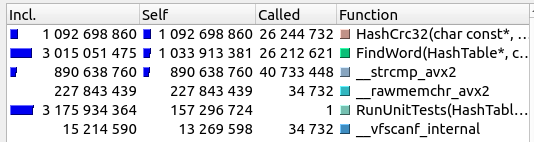
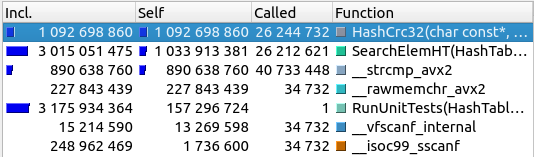
change optimizations order

diff --git a/src/hashfunctions.cpp b/src/hashfunctions.cpp
@@ -68,3 +68,68 @@ static inline uint32_t Rol (uint32_t num, int shift)
 {
     return (num << shift) | (num >> ((int) sizeof (num) * 8 - shift));
 }
+
+// -----------------------------------------------------------------------------
+// ---------------------------- Crc32 hash -------------------------------------
+// -----------------------------------------------------------------------------
+
+const uint32_t crc32_tab[] = {
+	0x00000000, 0x77073096, 0xee0e612c, 0x990951ba, 0x076dc419, 0x706af48f,
+	0xe963a535, 0x9e6495a3,	0x0edb8832, 0x79dcb8a4, 0xe0d5e91e, 0x97d2d988,
+	0x09b64c2b, 0x7eb17cbd, 0xe7b82d07, 0x90bf1d91, 0x1db71064, 0x6ab020f2,
+	0xf3b97148, 0x84be41de,	0x1adad47d, 0x6ddde4eb, 0xf4d4b551, 0x83d385c7,
+	0x136c9856, 0x646ba8c0, 0xfd62f97a, 0x8a65c9ec,	0x14015c4f, 0x63066cd9,
+	0xfa0f3d63, 0x8d080df5,	0x3b6e20c8, 0x4c69105e, 0xd56041e4, 0xa2677172,
+	0x3c03e4d1, 0x4b04d447, 0xd20d85fd, 0xa50ab56b,	0x35b5a8fa, 0x42b2986c,
+	0xdbbbc9d6, 0xacbcf940,	0x32d86ce3, 0x45df5c75, 0xdcd60dcf, 0xabd13d59,
+	0x26d930ac, 0x51de003a, 0xc8d75180, 0xbfd06116, 0x21b4f4b5, 0x56b3c423,
+	0xcfba9599, 0xb8bda50f, 0x2802b89e, 0x5f058808, 0xc60cd9b2, 0xb10be924,
+	0x2f6f7c87, 0x58684c11, 0xc1611dab, 0xb6662d3d,	0x76dc4190, 0x01db7106,
+	0x98d220bc, 0xefd5102a, 0x71b18589, 0x06b6b51f, 0x9fbfe4a5, 0xe8b8d433,
+	0x7807c9a2, 0x0f00f934, 0x9609a88e, 0xe10e9818, 0x7f6a0dbb, 0x086d3d2d,
+	0x91646c97, 0xe6635c01, 0x6b6b51f4, 0x1c6c6162, 0x856530d8, 0xf262004e,
+	0x6c0695ed, 0x1b01a57b, 0x8208f4c1, 0xf50fc457, 0x65b0d9c6, 0x12b7e950,
+	0x8bbeb8ea, 0xfcb9887c, 0x62dd1ddf, 0x15da2d49, 0x8cd37cf3, 0xfbd44c65,
+	0x4db26158, 0x3ab551ce, 0xa3bc0074, 0xd4bb30e2, 0x4adfa541, 0x3dd895d7,
+	0xa4d1c46d, 0xd3d6f4fb, 0x4369e96a, 0x346ed9fc, 0xad678846, 0xda60b8d0,
+	0x44042d73, 0x33031de5, 0xaa0a4c5f, 0xdd0d7cc9, 0x5005713c, 0x270241aa,
+	0xbe0b1010, 0xc90c2086, 0x5768b525, 0x206f85b3, 0xb966d409, 0xce61e49f,
+	0x5edef90e, 0x29d9c998, 0xb0d09822, 0xc7d7a8b4, 0x59b33d17, 0x2eb40d81,
+	0xb7bd5c3b, 0xc0ba6cad, 0xedb88320, 0x9abfb3b6, 0x03b6e20c, 0x74b1d29a,
+	0xead54739, 0x9dd277af, 0x04db2615, 0x73dc1683, 0xe3630b12, 0x94643b84,
+	0x0d6d6a3e, 0x7a6a5aa8, 0xe40ecf0b, 0x9309ff9d, 0x0a00ae27, 0x7d079eb1,
+	0xf00f9344, 0x8708a3d2, 0x1e01f268, 0x6906c2fe, 0xf762575d, 0x806567cb,
+	0x196c3671, 0x6e6b06e7, 0xfed41b76, 0x89d32be0, 0x10da7a5a, 0x67dd4acc,
+	0xf9b9df6f, 0x8ebeeff9, 0x17b7be43, 0x60b08ed5, 0xd6d6a3e8, 0xa1d1937e,
+	0x38d8c2c4, 0x4fdff252, 0xd1bb67f1, 0xa6bc5767, 0x3fb506dd, 0x48b2364b,
+	0xd80d2bda, 0xaf0a1b4c, 0x36034af6, 0x41047a60, 0xdf60efc3, 0xa867df55,
+	0x316e8eef, 0x4669be79, 0xcb61b38c, 0xbc66831a, 0x256fd2a0, 0x5268e236,
+	0xcc0c7795, 0xbb0b4703, 0x220216b9, 0x5505262f, 0xc5ba3bbe, 0xb2bd0b28,
+	0x2bb45a92, 0x5cb36a04, 0xc2d7ffa7, 0xb5d0cf31, 0x2cd99e8b, 0x5bdeae1d,
+	0x9b64c2b0, 0xec63f226, 0x756aa39c, 0x026d930a, 0x9c0906a9, 0xeb0e363f,
+	0x72076785, 0x05005713, 0x95bf4a82, 0xe2b87a14, 0x7bb12bae, 0x0cb61b38,
+	0x92d28e9b, 0xe5d5be0d, 0x7cdcefb7, 0x0bdbdf21, 0x86d3d2d4, 0xf1d4e242,
+	0x68ddb3f8, 0x1fda836e, 0x81be16cd, 0xf6b9265b, 0x6fb077e1, 0x18b74777,
+	0x88085ae6, 0xff0f6a70, 0x66063bca, 0x11010b5c, 0x8f659eff, 0xf862ae69,
+	0x616bffd3, 0x166ccf45, 0xa00ae278, 0xd70dd2ee, 0x4e048354, 0x3903b3c2,
+	0xa7672661, 0xd06016f7, 0x4969474d, 0x3e6e77db, 0xaed16a4a, 0xd9d65adc,
+	0x40df0b66, 0x37d83bf0, 0xa9bcae53, 0xdebb9ec5, 0x47b2cf7f, 0x30b5ffe9,
+	0xbdbdf21c, 0xcabac28a, 0x53b39330, 0x24b4a3a6, 0xbad03605, 0xcdd70693,
+	0x54de5729, 0x23d967bf, 0xb3667a2e, 0xc4614ab8, 0x5d681b02, 0x2a6f2b94,
+	0xb40bbe37, 0xc30c8ea1, 0x5a05df1b, 0x2d02ef8d
+};
+
+
+uint32_t HashCrc32(const char* word, size_t len)
+{
+    uint32_t crc = 0;
+
+    crc = 0xFFFFFFFF;
+
+    for (size_t i = 0; i < len; i++)
+    {
+        crc = crc32_tab[(crc ^ word[i]) & 0xFF] ^ (crc >> 8);
+    }
+
+    return crc ^ 0xFFFFFFFF;
+}

diff --git a/src/hashtable.cpp b/src/hashtable.cpp
@@ -1,8 +1,6 @@
 #include "hashtable.h"
 #include "utils.h"
-#include <cstddef>
 
-static int        CheckRepeat     (List* list, const char* word);
 static inline int InlineAsmStrcmp (const char str1[WORD_LEN], const char str2[WORD_LEN]);
 
 HashTable* HashTableCtor (size_t hash_t_size, uint32_t (*hash_function) (const char*, size_t))
@@ -18,14 +16,33 @@ HashTable* HashTableCtor (size_t hash_t_size, uint32_t (*hash_function) (const c
     return hash_t;
 }
 
-bool FindWord (HashTable* hash_t, const char* word, size_t len)
+bool SearchElemHT (HashTable* hash_t, const char* word, size_t len)
 {
     assert (hash_t);
     assert (word);
 
-    uint32_t hash_value = hash_t->hash_function (word, len) % hash_t->size;
+    uint32_t hash_value = HashFunction (hash_t, word, len) % hash_t->size;
 
     return (bool) CheckRepeat (&hash_t->content[hash_value], word);
+}
+
+int CheckRepeat (List* list, const char* word)
+{
+    assert (list);
+    assert (word);
+
+    Node* nodes_array = list->nodes;
+    int cur_node_index = list->head;
+
+    while (cur_node_index != 0)
+    {
+        Node cur_node = nodes_array[cur_node_index];
+
+        if (InlineAsmStrcmp (word, cur_node.value) == -1) return cur_node_index;
+        cur_node_index = cur_node.next;
+    }
+
+    return 0;
 }
 
 void HashTableDtor (HashTable* hash_t)
@@ -63,7 +80,7 @@ void InsertValue (HashTable* hash_t, const char* word, size_t len)
     assert (hash_t);
     assert (word);
 
-    uint32_t hash_value = hash_t->hash_function (word, len) % hash_t->size;
+    uint32_t hash_value = HashFunction (hash_t, word, len) % hash_t->size;
 
     List* cur_list = &hash_t->content[hash_value];
     if (CheckRepeat (cur_list, word)) return;
@@ -71,31 +88,13 @@ void InsertValue (HashTable* hash_t, const char* word, size_t len)
     InsertTail (cur_list, word);
 }
 
-static int CheckRepeat (List* list, const char* word)
-{
-    assert (list);
-    assert (word);
-
-    Node* nodes_array = list->nodes;
-    int cur_node_index = list->head;
-
-    while (cur_node_index != 0)
-    {
-        Node cur_node = nodes_array[cur_node_index];
-
-        if (InlineAsmStrcmp (word, cur_node.value) == -1) return cur_node_index;
-        cur_node_index = cur_node.next;
-    }
-
-    return 0;
-}
 
 void DeleteValue (HashTable* hash_t, const char* word, size_t len)
 {
     assert (hash_t);
     assert (word);
 
-    uint32_t hash_value = hash_t->hash_function (word, len) % hash_t->size;
+    uint32_t hash_value = HashFunction (hash_t, word, len) % hash_t->size;
     List* cur_list = &hash_t->content[hash_value];
 
     int position = CheckRepeat (cur_list, word);

diff --git a/include/hashtable.h b/include/hashtable.h
@@ -27,10 +27,13 @@ HashTable* HashTableCtor (size_t hash_t_size, uint32_t (*hash_function) (const c
 void       FillHashTable (HashTable* hash_t, Text* text);
 void       InsertValue   (HashTable* hash_t, const char* word, size_t len);
 void       DeleteValue   (HashTable* hash_t, const char* word, size_t len);
-bool       FindWord      (HashTable* hash_t, const char* word, size_t len);
+bool       SearchElemHT  (HashTable* hash_t, const char* word, size_t len);
 void       HashTableDtor (HashTable* hash_t);
+int        CheckRepeat   (List* list, const char* word);
 
 extern "C" uint32_t AsmStrcmp  (const char* str1, const char* str2);
+
+extern "C" uint32_t AsmHashCrc32 (const char* word, size_t len);
 
 uint32_t HashZero              (const char* word, size_t len);
 uint32_t HashFirstLetter       (const char* word, size_t len);
@@ -39,9 +42,27 @@ uint32_t HashAsciiSum          (const char* word, size_t len);
 uint32_t HashAsciiSumDivStrlen (const char* word, size_t len);
 uint32_t HashRor               (const char* word, size_t len);
 uint32_t HashRol               (const char* word, size_t len);
+uint32_t HashCrc32             (const char* word, size_t len);
 
-uint32_t IntrinsicHashCrc32      (const char* word, size_t len);
-uint32_t HashCrc32               (const char* word, size_t len);
+inline uint32_t IntrinsicHashCrc32 (const char* word, size_t len);
+inline uint32_t IntrinsicHashCrc32 (const char* word, size_t len)
+{
+	uint32_t hash = 0xEDB88320;
+
+	for (size_t i = 0; i < len; i++)
+		hash = _mm_crc32_u8 (hash, word[i]);
+
+	return hash;
+}
+
+inline uint32_t HashFunction (HashTable* hash_t, const char* word, size_t len)
+{
+    #ifdef HASH_FUNCTIONS_CMP
+        return hash_t->hash_function (word, len);
+    #else
+        return IntrinsicHashCrc32 (word, len);
+    #endif
+}
 
 void DumpTableTxt        (HashTable* hash_t, const char* dump_filename);
 void DumpHashCsv         (HashTable* hash_t, const char* dump_filename);

diff --git a/src/unittests.cpp b/src/unittests.cpp
@@ -1,5 +1,4 @@
 #include "hashtable.h"
-#include "utils.h"
 
 size_t RunUnitTests (HashTable* hash_t, const char* filename)
 {
@@ -16,9 +15,9 @@ size_t RunUnitTests (HashTable* hash_t, const char* filename)
         size_t len = text->words_len[i];
 
         for (size_t k = 0; k < TESTS_NUM; k++)
-            FindWord (hash_t, word, len);
+            SearchElemHT (hash_t, word, len);
 
-        if (FindWord (hash_t, word, len))
+        if (SearchElemHT (hash_t, word, len))
             ++finded_words;
 
         word += WORD_LEN;

diff --git a/src/main.cpp b/src/main.cpp
@@ -29,9 +29,9 @@ int main ()
 
     #else
 
-        HashTable* hash_t = HashTableCtor (HASH_T_SIZE, IntrinsicHashCrc32);
+        HashTable* hash_t = HashTableCtor (HASH_T_SIZE, nullptr);
 
-        Text* text = GetAlignedFileContent(CONTENT_FILE);
+        Text* text = GetAlignedFileContent (CONTENT_FILE);
 
         FillHashTable (hash_t, text);
 

diff --git a/README.md b/README.md
@@ -161,8 +161,11 @@ uint32_t HashCrc32(const char* word, size_t len)
 - **CPU**: Intel(R) Core(TM) i7-10510U CPU @ 1.80GHz
 - **Compiler**: gcc 11.4.0
 - **Compiler flags**: -g -O3 -mavx2
+- **CPU temperature**: 40 °C
 
 Тестирование заключалось в поиске в хеш-таблице слов из текста. Для расчета времени исполнения функции поиска использован профилировщик ```callgrind```.
+
+Примечание: температура процессора указана, чтобы показать, что в процессе измерений не возникало троттлинга - эффекта пропуска части тактов процессора при его перегреве.
 
 ### Использование памяти в программе
 
@@ -184,76 +187,51 @@ uint32_t HashCrc32(const char* word, size_t len)
 | :---------: | :------: | :----------: | :------------: |
 | Baseline    | 3 015 051 475 | 1 | 1 |
 
-Самыми затратными по времени фукнциями, которые вызывает функция поиска, являются ```HashCrc32``` (36 %) и ```strcmp``` (30 %). Их я и буду оптимизировать.
-
-Примечание: функция ```FindWord``` состоит только из присваиваний, цикла и прочих накладных расходов, что и обеспечивает такое время работы. Поэтому я считаю ее оптимизацию ненужной (ускорение будет очень низким, при этом ухудшится читаемость кода, и функция ```CheckRepeat``` может перестать быть ```inline```, если писать ее в отдельном ассемблерном файле).
-
-Отчет о работе ```FindWord```:
-
-<img src= "https://github.com/vvit19/HashTable/blob/master/profilerdata/findword0.png" width="500px"/>
+Самыми затратными по времени фукнцией является ```HashCrc32```, она будет оптимизирована в первую очередь.
 
 ### HashCrc32 optimization
 
-Вообще говоря, хеш-функция ```CRC32``` была подобрана неслучайно. Дело в том, что существует ассемблерная функция, которая считает этот хеш. Можно использовать AVX инструкции:
-
-~~~ C++
-uint32_t IntrinsicHashCrc32 (const char* word, size_t len)
-{
-	uint32_t hash = 0xEDB88320;
-
-	for (size_t i = 0; i < len; i++)
-		hash = _mm_crc32_u8 (hash, word[i]);
-
-	return hash;
-}
-
-~~~
-
-Отчет профилировщика:
-
-<img src= "https://github.com/vvit19/HashTable/blob/master/profilerdata/hashopt.png" width="500px"/>
-
-| Оптимизации | Время <br> CPU cycles   | Абсолютное ускорение | Относительное ускорение |
-| :---------: | :------: | :----------: | :------------: |
-| Baseline    | 3 015 051 475 | 1 | 1 |
-| Intrinsic Hash | 2 575 987 573 | 1,17 | 1,17 |
-
-Непосредственно функция расчета хеша ускорилась на 40 %, и теперь большую часть времени работы функции поиска занимает ```strcmp```. Дальше будем ускорять ее.
-
-### Strcmp optimization
-
-Ускорим ```strcmp```, написав ее на ассемблере. Здесь как раз и пригодится, что под слова в памяти выделено по 32 байта.
+Вообще говоря, хеш-функция ```Crc32``` была подобрана неслучайно. Дело в том, что существует ассемблерная функция, которая считает этот хеш:
 
 ~~~ asm
-global AsmStrcmp
+global AsmHashCrc32
 
 section .text
-AsmStrcmp:
-        vmovdqu ymm1, yword [rdi]
-        vpcmpeqb ymm0, ymm1, yword [rsi]
-        vpmovmskb rax, ymm0
+
+AsmHashCrc32:
+        mov eax, 0xEDB88320
+        push rdi
+        add rdi, rsi    ; rdi += strlen
+        lea rsi, [rdi]
+        pop rdi
+.While:
+        crc32 eax, byte [rdi]
+        inc rdi
+        cmp rdi, rsi
+        jl .While
         ret
 
 ~~~
 
-
 Отчет профилировщика:
 
-<img src= "https://github.com/vvit19/HashTable/blob/master/profilerdata/asmcmp.png" width="500px"/>
+<img src= "https://github.com/vvit19/HashTable/blob/master/profilerdata/asmhash.png" width="500px"/>
 
 | Оптимизации | Время <br> CPU cycles   | Абсолютное ускорение | Относительное ускорение |
 | :---------: | :------: | :----------: | :------------: |
 | Baseline    | 3 015 051 475 | 1 | 1 |
-| Intrinsic Hash | 2 575 987 573 | 1,17 | 1,17 |
-| Assembly strcmp | 1 785 268 509 | 1,69 | 1,44 |
+| Assembly Hash | 2 549 774 952 | 1,18 | 1,18 |
 
-Получено значительное ускорение программы. Однако сейчас на вызов ```AsmStrcmp``` тратится значительное число времени. Это можно исправить, сделав ассемблерную ```strcmp``` инлайновой. В этом помогут ассемблерные вставки.
+Непосредственно функция расчета хеша ускорилась на 54 %, и теперь самыми затратными по времени являются непосредственно функция поиска и ```strcmp```. Можно оптимизировать функцию ```strcmp```, используя ассемблерную вставку, и сделать саму функцию ```inline```. Таким образом, также ускорится и ```SearchElemHT```, ведь теперь в ней не будет тратиться много времени на вызов ```strcmp```.
+
 
 ### Inline assembly strcmp optimization
 
+Здесь как раз и пригодится, что под слова в памяти выделено по 32 байта. Благодаря этому можно использовать ```AVX``` инструкции:
+
 ~~~ C++
 
-static inline int InlineAsmStrcmp (const char str1[WORD_LEN], const char str2[WORD_LEN])
+inline int InlineAsmStrcmp (const char str1[WORD_LEN], const char str2[WORD_LEN])
 {
     int res = 0;
 
@@ -276,17 +254,45 @@ static inline int InlineAsmStrcmp (const char str1[WORD_LEN], const char str2[WO
 | Оптимизации | Время <br> CPU cycles   | Абсолютное ускорение | Относительное ускорение |
 | :---------: | :------: | :----------: | :------------: |
 | Baseline    | 3 015 051 475 | 1 | 1 |
-| Intrinsic Hash | 2 575 987 573 | 1,17 | 1,17 |
-| Assembly strcmp | 1 785 268 509 | 1,69 | 1,44 |
-| Inline asm strcmp | 1 680 728 056 | 1,79 | 1,06 |
+| Assembly Hash | 2 549 774 952 | 1,18 | 1,18 |
+| Inline asm strcmp | 1 654 515 435 | 1,82 | 1,54 |
 
-Есть прирост во времени относительно предыдущей оптимизации. Действительно, поскольку обычно ```strcmp``` вызывается в циклах, инлайн подстановка гораздо выгоднее, чем обычный вызов.
+Использование ассемблерной вставки позволило оптимизировать 2 функции сразу. Однако в функции ```SearchElemHT``` все еще тратится много времени на вызов ```AsmHashCrc32```. Она определена в другом ассемблерном файле, и компилятор не может сделать ее ```inline```. Но это исправимо: существует интринскик, считающий ```Crc32```. Тогда можно использовать этот интринсик и переписать ```AsmHashCrc32``` уже на Си, чтобы заинлайнить ее.
+
+### Intrinsic HashCrc32 optimization
+
+~~~ C++
+
+inline uint32_t IntrinsicHashCrc32 (const char* word, size_t len)
+{
+	uint32_t hash = 0xEDB88320;
+
+	for (size_t i = 0; i < len; i++)
+		hash = _mm_crc32_u8 (hash, word[i]);
+
+	return hash;
+}
+
+~~~
+
+Отчет профилировщика:
+
+<img src= "https://github.com/vvit19/HashTable/blob/master/profilerdata/inlinehash.png" width="500px"/>
+
+| Оптимизации | Время <br> CPU cycles   | Абсолютное ускорение | Относительное ускорение |
+| :---------: | :------: | :----------: | :------------: |
+| Baseline    | 3 015 051 475 | 1 | 1 |
+| Assembky Hash | 2 549 774 952 | 1,18 | 1,18 |
+| Inline asm strcmp | 1 654 515 435 | 1,82 | 1,54 |
+| Intrinsic Hash | 1 392 389 225 | 2,17 | 1,19 |
 
 ### Вывод
 
-Благодаря профилировщику можно искать узкие места в программе, которые можно оптимизировать. Таким образом, точечными низкоуровневыми оптимизациями программа была ускорена в 1,79 раз. Это показывает, что использование только компиляторных оптимизаций недостаточно.
+Благодаря профилировщику можно искать узкие места в программе, которые можно оптимизировать. Таким образом, точечными низкоуровневыми оптимизациями программа была ускорена в 2,17 раз. Это показывает, что использование только флагов оптимизаций недостаточно.
 
-Бонус: DED_coeff = $\frac{\text{ускорение программы}}{количество  ассемблерных  строк} * 1000 = \frac{1790}{12} = 141,17$
+При этом всегда стоит помнить, что большое число ассемблерных оптимизаций вредит переносимости кода и его читаемости. Поэтому посчитаем коэффициент [Деда](https://github.com/ded32):
+
+DED_coeff = $\frac{\text{ускорение программы}}{количество  ассемблерных  строк} * 1000 = \frac{2170}{11} = 197,27$
 
 ## Список литературы и ресурсов
 
@@ -294,4 +300,4 @@ static inline int InlineAsmStrcmp (const char str1[WORD_LEN], const char str2[WO
 - Valgrind - https://valgrind.org/
 - Compiler Explorer - https://godbolt.org/
 - Mirror of Intel® Intrinsics Guide - https://www.laruence.com/sse
-- Wikipedia: [HashTable](https://en.wikipedia.org/wiki/Hash_table), [Crc32](https://ru.wikipedia.org/wiki/%D0%A6%D0%B8%D0%BA%D0%BB%D0%B8%D1%87%D0%B5%D1%81%D0%BA%D0%B8%D0%B9_%D0%B8%D0%B7%D0%B1%D1%8B%D1%82%D0%BE%D1%87%D0%BD%D1%8B%D0%B9_%D0%BA%D0%BE%D0%B4)
+- Wikipedia - [HashTable](https://en.wikipedia.org/wiki/Hash_table), [Crc32](https://ru.wikipedia.org/wiki/%D0%A6%D0%B8%D0%BA%D0%BB%D0%B8%D1%87%D0%B5%D1%81%D0%BA%D0%B8%D0%B9_%D0%B8%D0%B7%D0%B1%D1%8B%D1%82%D0%BE%D1%87%D0%BD%D1%8B%D0%B9_%D0%BA%D0%BE%D0%B4)
